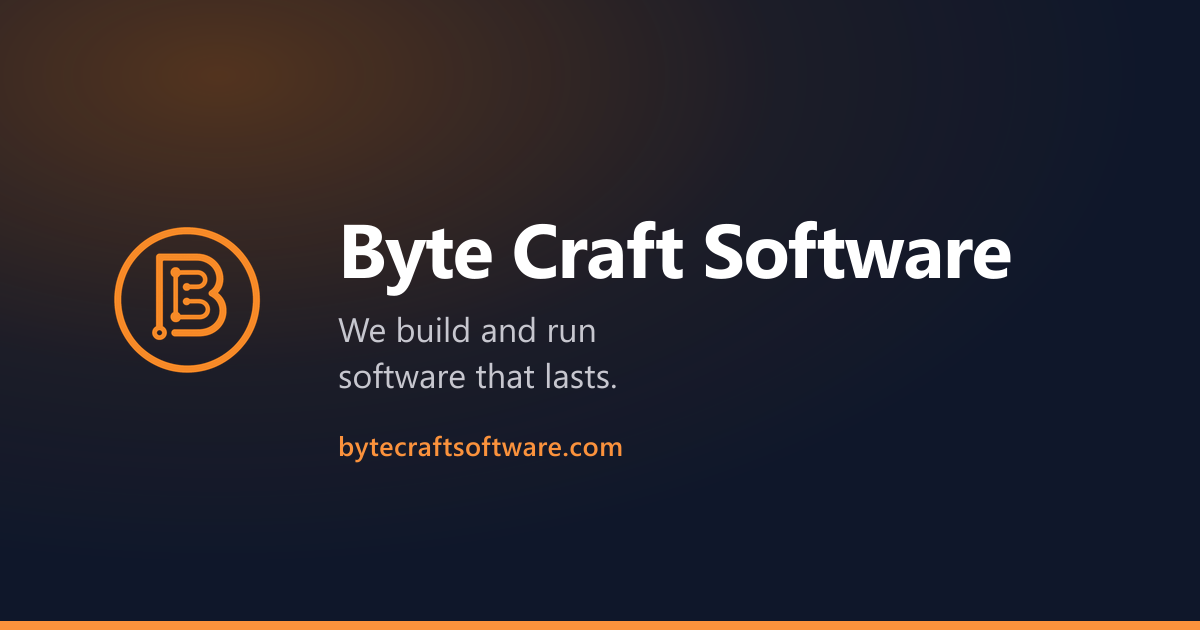
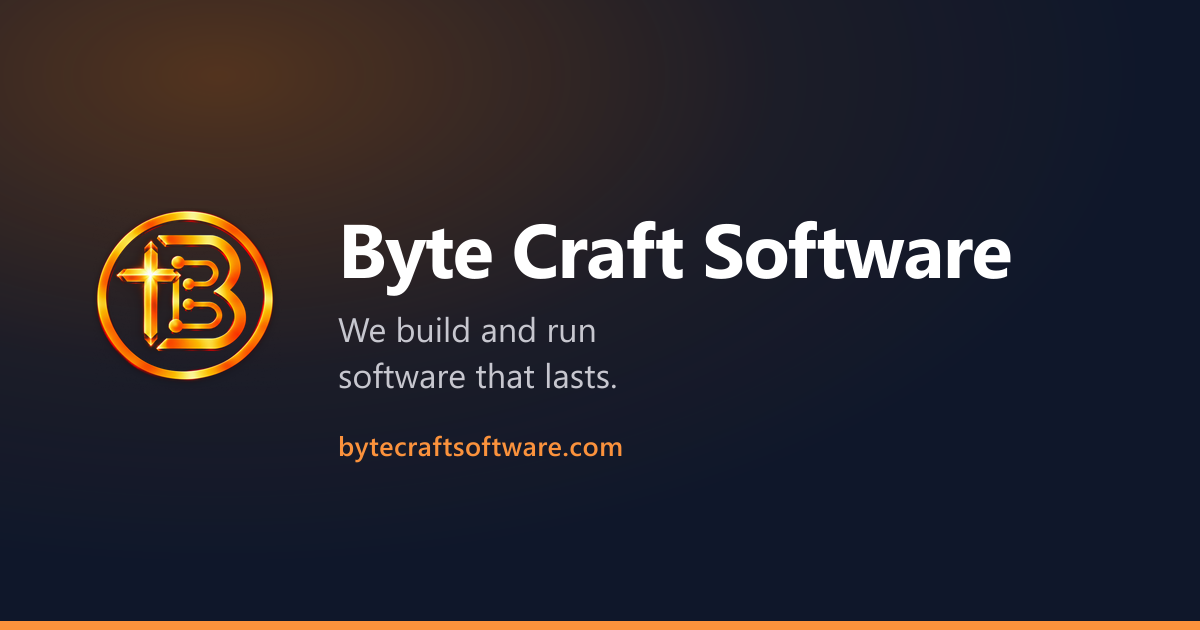
Reframe the site around products; regenerate the OG card
The About section opened with "a boutique engineering shop" and led on having
worked across startups and established businesses — true, but it describes
work done FOR other people, which is not what Byte Craft is. Products lead
now; the experience stays as the evidence behind them, and outside work is a
door at the end rather than the pitch. The product role lines change from
"Architecture, full-stack development", which reads like a credit on someone
else's project, to "Designed, built and operated in-house".

og.png still carried the previous logo. Its card sourced public/bytecraft-logo.png,
which is the 96px header derivative — rendering that at 190px upscales it — so
it now reads design/bytecraft-logo-512.png and keys the glow.

The glow keying moves to tools/key-glow.cjs, shared by both scripts instead of
copied into each. Its header says when to reach for it over key-bg.cjs: flat
tile with enclosed dark regions goes to the flood fill, a glow fading into
black goes to the luminance key. Picking wrong is what produced the hard halo
and the black disc inside the ring.

Changed region(s): [[0.0617, 0.3317, 0.2467, 0.6032]]

diff --git a/src/components/About.tsx b/src/components/About.tsx
@@ -1,19 +1,46 @@
 import React from "react";
 import Section from "./Section";
 
+/**
+ * Product-company framing, not agency framing.
+ *
+ * This section used to open with "a boutique engineering shop" and lead on
+ * having worked across startups and established businesses — true, but it
+ * describes work done FOR other people, which is not what Byte Craft is. The
+ * experience is still here; it moved from being the pitch to being the
+ * evidence behind it.
+ *
+ * The closing paragraph is deliberate too: outside work is welcome but is not
+ * the business, and it is what gives the contact form a reason to exist for a
+ * visitor who is not already a customer.
+ */
 const About: React.FC = () => {
   return (
-    <Section id="about" eyebrow="Who we are" title="Small team, big builds.">
+    <Section id="about" eyebrow="Who we are" title="We build our own software.">
       <p>
-        Byte Craft Software is a boutique engineering shop focused on{" "}
-        <strong>web applications</strong>. We&apos;re obsessed with clear
-        architecture, clean code, and shipping things that are actually
-        maintainable six months from now.
+        Byte Craft Software designs, builds and runs its own{" "}
+        <strong>web applications</strong>. Every product here is ours end to
+        end — which means we live with the shortcuts we take and fix them,
+        instead of handing them to someone else.
       </p>
       <p>
-        We&apos;ve worked across startups and established businesses, wearing
-        hats from senior developer to technical lead. We like solving messy,
-        real-world problems—not just rearranging pixels on a landing page.
+        That comes out of years across startups and established businesses,
+        wearing hats from senior developer to technical lead. We&apos;re
+        obsessed with clear architecture, clean code, and software that&apos;s
+        still maintainable six months from now — and we like messy, real-world
+        problems: the availability spreadsheet nobody can read on a phone, the
+        timecards still kept on paper.
+      </p>
+      <p>
+        Products are the focus, but not the whole story. If you&apos;ve got
+        something that needs building,{" "}
+        <a
+          href="#contact"
+          className="text-brand-orange font-medium hover:underline"
+        >
+          get in touch
+        </a>{" "}
+        — we take on outside work when it&apos;s the right fit.
       </p>
     </Section>
   );

diff --git a/src/components/Portfolio.tsx b/src/components/Portfolio.tsx
@@ -3,6 +3,12 @@ import Section from "./Section";
 
 type Project = {
   name: string;
+  /**
+   * What our involvement is — which, for everything but the litter box, is all
+   * of it. These used to read "Architecture, full-stack development", phrasing
+   * that belongs on a credit for a client's project rather than on our own
+   * product.
+   */
   role: string;
   summary: string;
   /**
@@ -32,7 +38,7 @@ const NEUTRAL_STATUS = "bg-slate-100 text-slate-600 border-slate-200";
 const projects: Project[] = [
   {
     name: "Dojo Companion",
-    role: "Architecture, full-stack development",
+    role: "Designed, built and operated in-house",
     summary:
       "Multi-tenant SaaS that runs a martial-arts school end to end: students, parents and prospects, classes and events with attendance, belt progression built on the paper stripe cards instructors already used, a store with per-dojo Stripe payouts, and messaging that reaches families by email, SMS or push. One deployment serves many dojos, each with its own data, branding and billing.",
     highlights: [
@@ -50,7 +56,7 @@ const projects: Project[] = [
   },
   {
     name: "Punchd",
-    role: "Architecture, full-stack development",
+    role: "Designed, built and operated in-house",
     summary:
       "Time tracking and payroll prep for small businesses. Employees punch in from their phone; owners and managers get timecards with configurable rounding, recurring and one-off shift scheduling, open shifts staff claim themselves, time-off requests with approval rules, and overtime estimates for the state the work actually happens in. Deliberately payroll prep rather than a payroll system — it tells you the hours, it doesn't pretend to be your compliance department.",
     highlights: [
@@ -69,7 +75,7 @@ const projects: Project[] = [
   },
   {
     name: "Long Rest",
-    role: "Architecture, full-stack development",
+    role: "Designed, built and operated in-house",
     summary:
       "Scheduling and chat for tabletop campaigns, built to replace a nine-player availability spreadsheet. Availability is a time window rather than a flat yes or no, quorum knows the night needs whoever is running the game and not just a headcount, and conflicts are detected across every campaign a person plays in. Session proposals, a campaign chat, and recaps the AI drafts from the notes the table already wrote.",
     highlights: [
